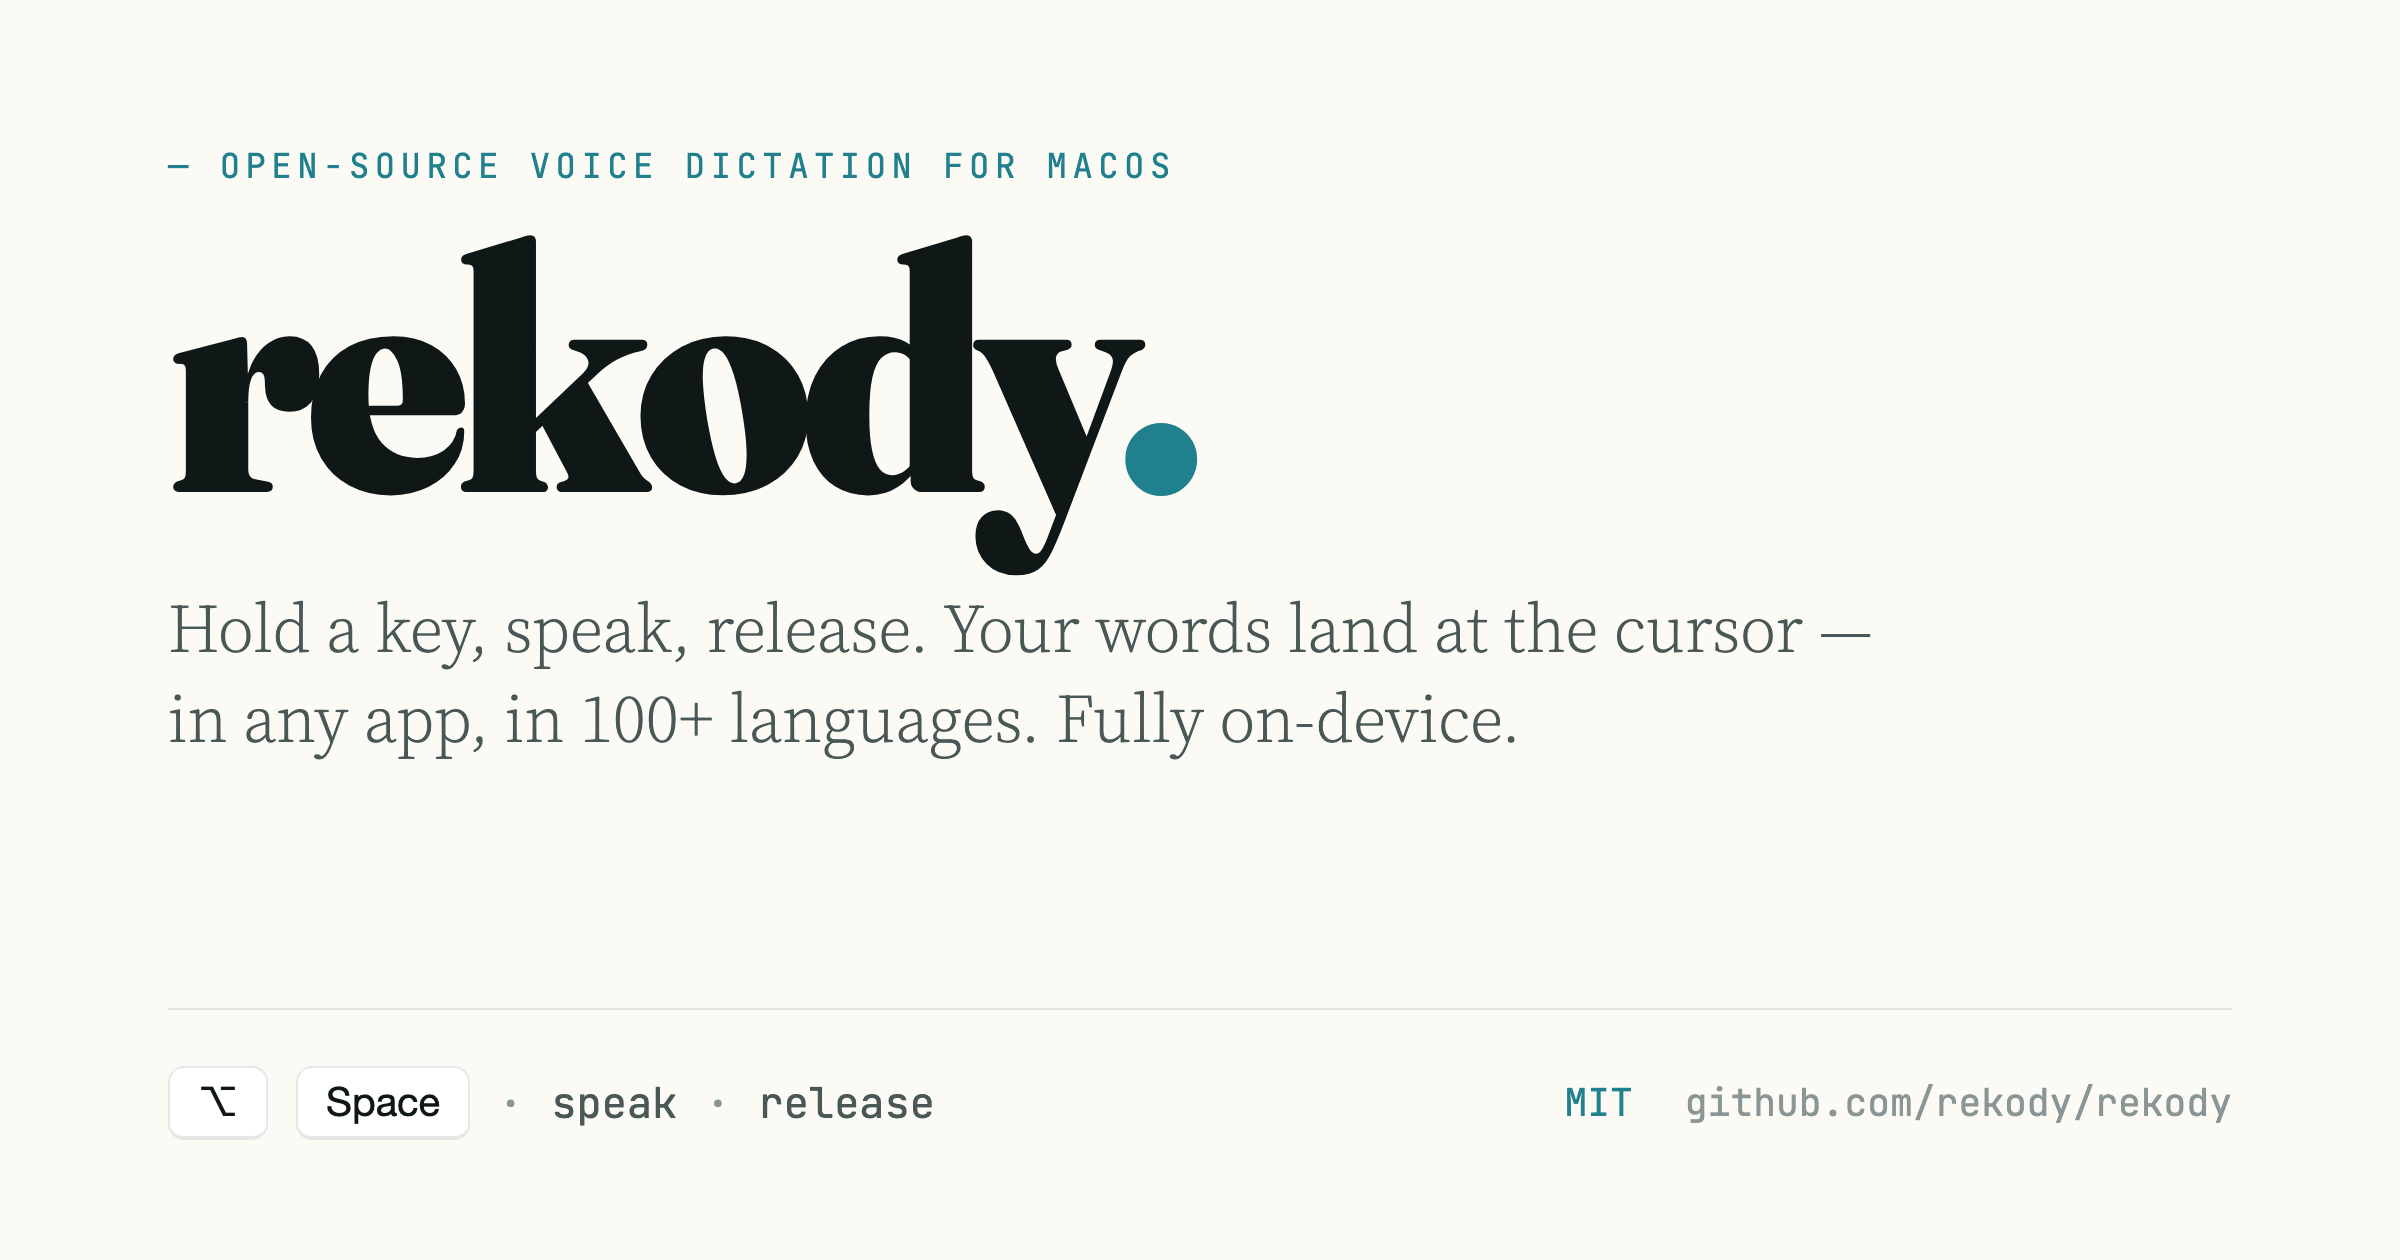
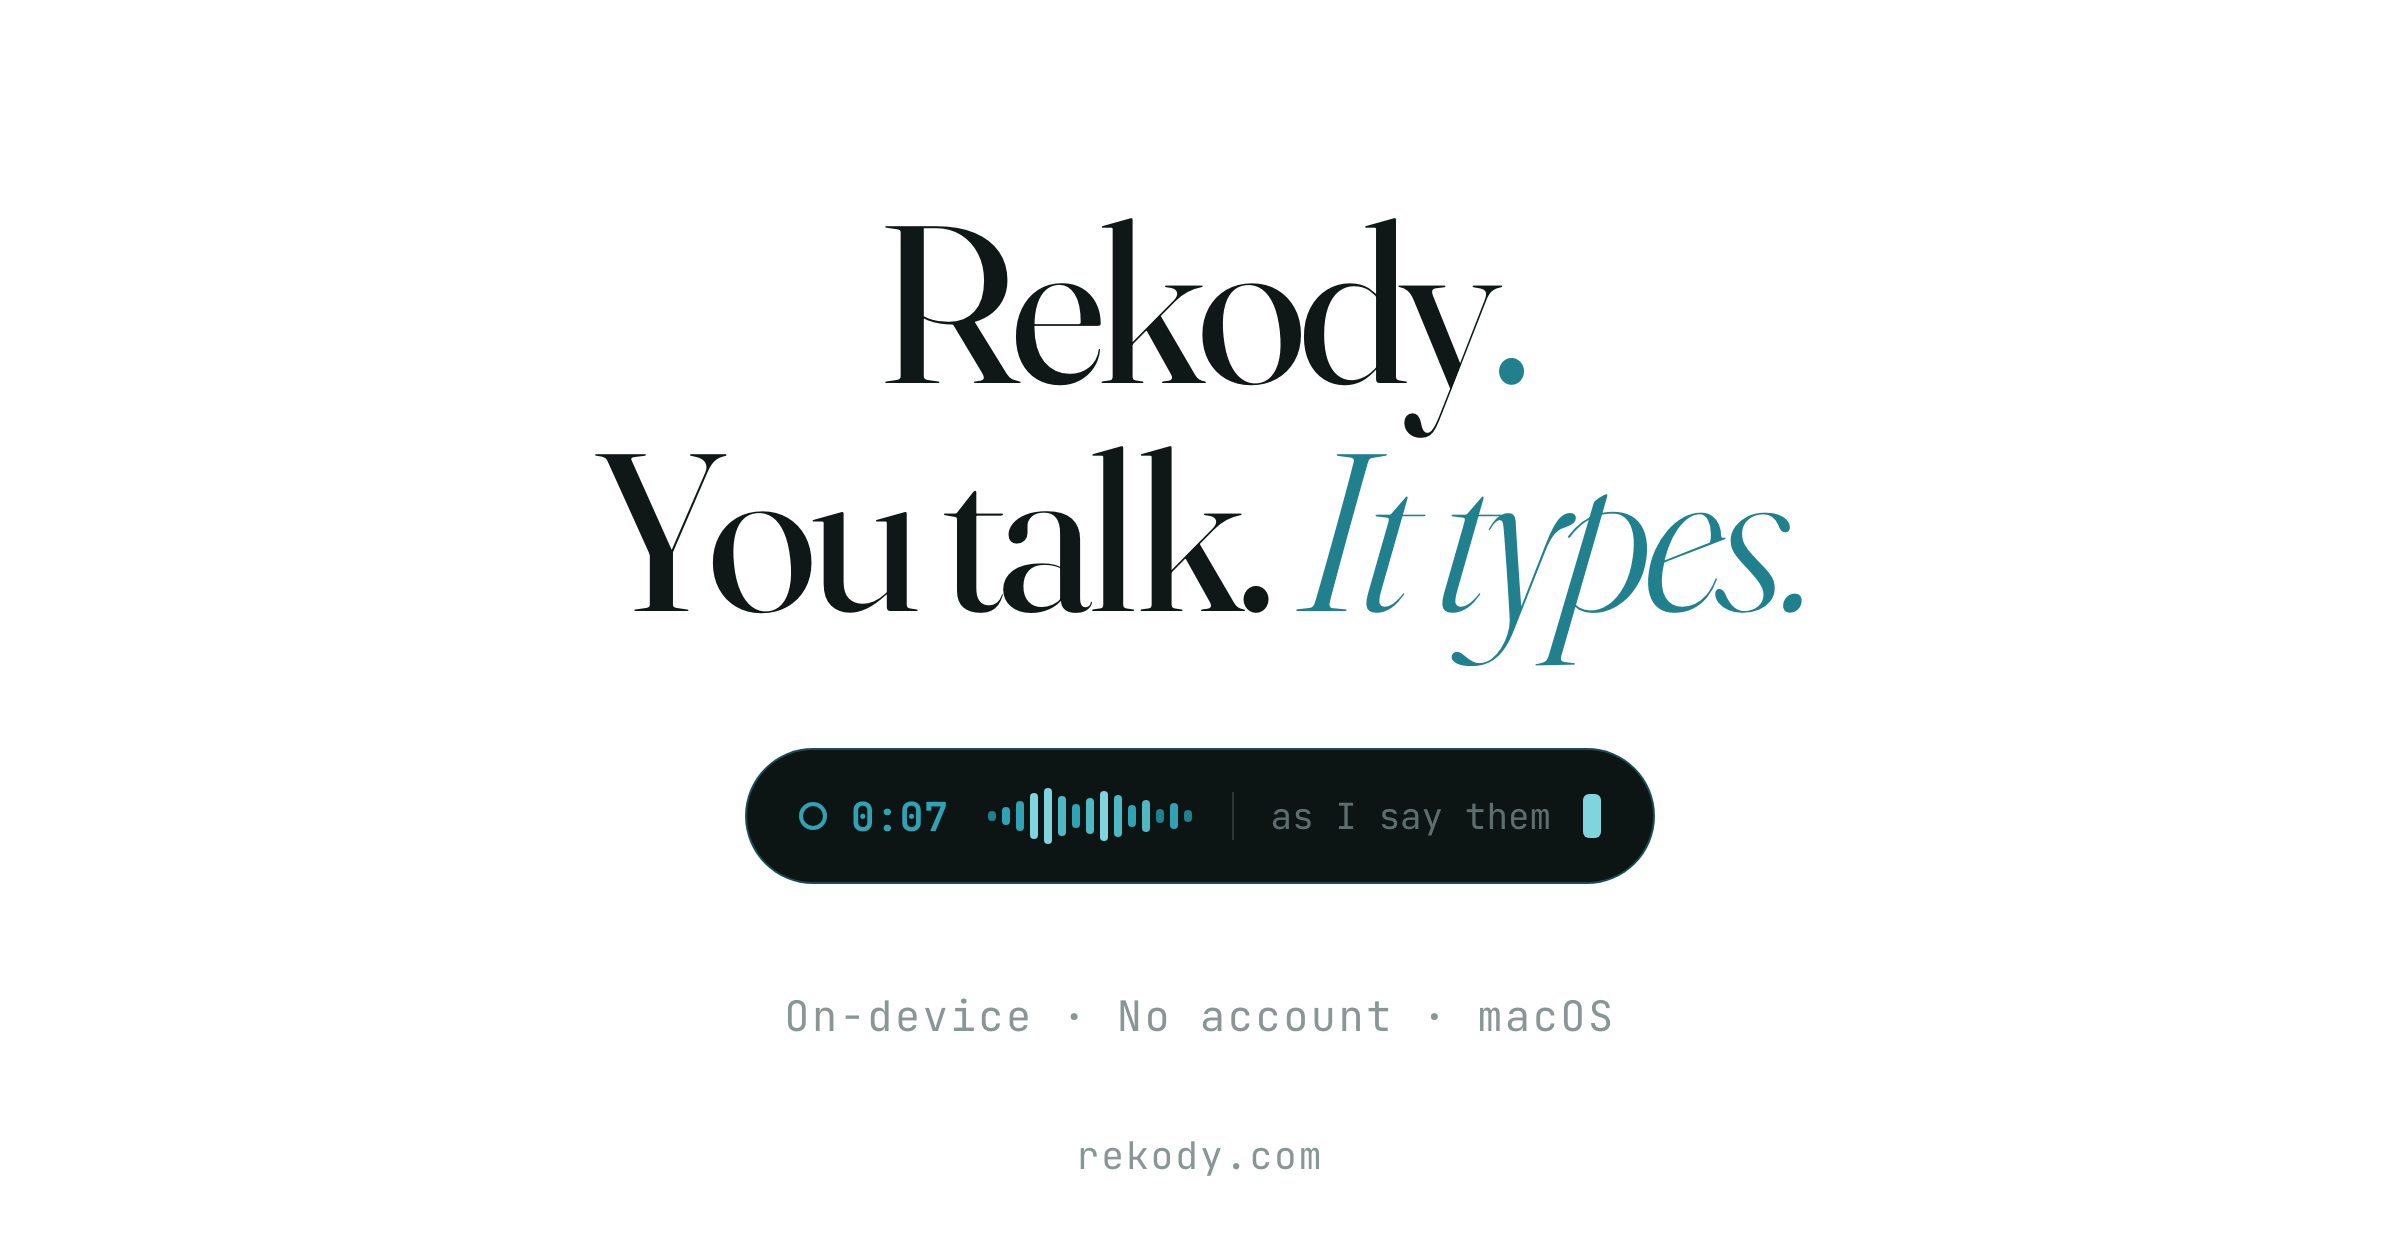
feat(website): on-brand OG share card
Replace the stale cream/lowercase OG card with a pure-white, on-brand one
that mirrors the site hero: "Rekody." + "You talk. It types." in Fraunces
(teal period and teal italic "It types."), a static render of the product
pill (hollow teal ring, teal 0:07 timer, teal waveform ramp, cream
transcript tail + caret), a mono trust line "On-device · No account ·
macOS", and a quiet rekody.com. No em dashes, no multilingual/OS/competitor
copy. Rendered at 2400x1260 (2x). Also tighten the default meta description
to one clean em-dash-free sentence.

diff --git a/website/scripts/og/template.html b/website/scripts/og/template.html
@@ -1,114 +1,170 @@
 <!doctype html>
-<!-- OG/social card template — rendered to public/og.png by generate.mjs.
-     Mirrors the site's design tokens (global.css): cream, ink, teal, Fraunces. -->
-<html>
+<!-- OG/social card template — rendered to public/og.png (2400x1260 @2x of 1200x630)
+     by generate.mjs or headless Chrome. Mirrors the site hero (Hero.astro) and
+     the ratified white-world brand tokens (global.css): pure white ground, ink,
+     teal, Fraunces display + JetBrains Mono. -->
+<html lang="en">
 <head>
 <meta charset="utf-8" />
 <link rel="preconnect" href="https://fonts.googleapis.com" />
-<link href="https://fonts.googleapis.com/css2?family=Fraunces:opsz,wght,SOFT@9..144,300..900,0..100&family=Source+Serif+4:opsz,wght@8..60,300..500&family=JetBrains+Mono:wght@400;500&display=swap" rel="stylesheet" />
+<link rel="preconnect" href="https://fonts.gstatic.com" crossorigin />
+<link href="https://fonts.googleapis.com/css2?family=Fraunces:ital,opsz,wght,SOFT@0,9..144,300..900,0..100;1,9..144,300..900,0..100&family=JetBrains+Mono:wght@400;500;700&display=swap" rel="stylesheet" />
 <style>
   :root {
-    --cream: #FBFAF4;
+    --white: #FFFFFF;
+    --paper: #FBFAF4;
     --ink: #0F1717;
     --ink-mute: #4A5757;
     --ink-faint: #8A9696;
     --teal: #20808D;
-    --hairline: rgba(15, 23, 23, 0.10);
+    --pill: #0D1414;
   }
   * { margin: 0; padding: 0; box-sizing: border-box; }
+
+  html, body { width: 1200px; height: 630px; }
+
   body {
-    width: 1200px;
-    height: 630px;
-    background: var(--cream);
-    font-family: "Source Serif 4", Georgia, serif;
+    background: var(--white);
+    font-family: "Fraunces", Georgia, serif;
     color: var(--ink);
     display: flex;
     flex-direction: column;
-    justify-content: space-between;
-    padding: 72px 84px 60px;
+    align-items: center;
+    justify-content: center;
     position: relative;
     overflow: hidden;
+    -webkit-font-smoothing: antialiased;
+    text-rendering: geometricPrecision;
   }
-  .eyebrow {
-    font-family: "JetBrains Mono", monospace;
-    font-size: 17px;
-    letter-spacing: 0.16em;
-    text-transform: uppercase;
+
+  /* Centered stack: wordmark sentence, pill, trust line, url. */
+  .stage {
+    display: flex;
+    flex-direction: column;
+    align-items: center;
+    gap: 52px;
+    margin-top: -14px; /* optical centering: descenders + domain balance the block */
+  }
+
+  /* The brand sentence — mirrors Hero.astro H1 exactly:
+     "Rekody." then "You talk. It types." with the name's period + "It types."
+     in teal, "It types." set in Fraunces 300 italic. */
+  .headline {
+    font-weight: 400;
+    letter-spacing: -0.035em;
+    line-height: 1.02;
+    text-align: center;
+    color: var(--ink);
+    font-size: 112px;
+  }
+  .headline .name { display: block; }
+  .headline .teal { color: var(--teal); }
+  .headline .it {
+    font-weight: 300;
+    font-style: italic;
     color: var(--teal);
   }
-  .wordmark {
-    font-family: "Fraunces", Georgia, serif;
-    font-variation-settings: 'SOFT' 30;
-    font-weight: 900;
-    font-size: 170px;
-    line-height: 0.95;
-    letter-spacing: -0.04em;
-    color: var(--ink);
-    margin-top: 10px;
-  }
-  .wordmark .dot { color: var(--teal); margin-left: -0.04em; }
-  .tagline {
-    font-size: 34px;
-    font-weight: 300;
-    color: var(--ink-mute);
-    margin-top: 26px;
-    max-width: 860px;
-    line-height: 1.35;
-  }
-  .bottom {
+
+  /* Product pill — mirrors PillView.swift / the hero HUD (hands-free state),
+     rendered static for the still image: app dot, hollow teal circle + teal
+     mono timer, teal waveform ramp, cream transcript tail + teal caret. */
+  .pill {
     display: flex;
     align-items: center;
-    justify-content: space-between;
-    border-top: 1px solid var(--hairline);
-    padding-top: 28px;
+    gap: 20px;
+    background: var(--pill);
+    border: 1px solid rgba(47, 163, 179, 0.4);
+    border-radius: 999px;
+    padding: 16px 26px;
+    box-shadow: 0 40px 90px -40px rgba(15, 23, 23, 0.45);
   }
-  .keys {
+  .pill .grp { display: flex; align-items: center; gap: 12px; }
+  /* Hollow teal recording ring */
+  .ring {
+    width: 14px; height: 14px;
+    border-radius: 999px;
+    border: 2px solid #2FA3B3;
+    flex-shrink: 0;
+  }
+  .timer {
+    font-family: "JetBrains Mono", monospace;
+    font-weight: 700;
+    font-size: 20px;
+    color: #2FA3B3;
+    letter-spacing: 0.01em;
+  }
+  /* Waveform: teal amplitude ramp #20808D → #7FD4DE (from Hero.astro bars) */
+  .wave { display: flex; align-items: center; gap: 3px; height: 34px; }
+  .wave i { width: 4px; border-radius: 2px; display: block; }
+  /* Cream transcript tail + blinking-look caret */
+  .tail {
+    display: flex; align-items: center; gap: 8px;
+    padding-left: 18px;
+    border-left: 1px solid rgba(251, 250, 244, 0.14);
+  }
+  .tail .dim { font-family: "JetBrains Mono", monospace; font-size: 18px; color: #5E6E6E; }
+  .tail .lit { font-family: "JetBrains Mono", monospace; font-size: 18px; color: var(--paper); }
+  .caret { width: 9px; height: 22px; border-radius: 3px; background: #7FD4DE; flex-shrink: 0; }
+
+  /* Trust line — mono, faint, middot separators, no em dashes. */
+  .trust {
     font-family: "JetBrains Mono", monospace;
     font-size: 21px;
-    color: var(--ink-mute);
-    display: flex;
-    align-items: center;
-    gap: 14px;
+    letter-spacing: 0.06em;
+    color: var(--ink-faint);
   }
-  .key {
-    display: inline-block;
-    border: 1px solid var(--hairline);
-    border-bottom-width: 2px;
-    border-radius: 8px;
-    padding: 5px 14px;
-    background: #fff;
-    color: var(--ink);
-    font-size: 20px;
-    /* System font first: JetBrains Mono lacks ⌥ (U+2325) */
-    font-family: -apple-system, "Helvetica Neue", "JetBrains Mono", monospace;
-  }
-  .sep { color: var(--ink-faint); }
-  .meta {
+
+  /* Quiet domain, bottom-center under the pill. */
+  .domain {
+    position: absolute;
+    bottom: 40px;
+    left: 0; right: 0;
+    text-align: center;
     font-family: "JetBrains Mono", monospace;
     font-size: 19px;
+    letter-spacing: 0.05em;
     color: var(--ink-faint);
-    display: flex;
-    gap: 26px;
   }
-  .meta .mit { color: var(--teal); }
 </style>
 </head>
 <body>
-  <div>
-    <div class="eyebrow">— open-source voice dictation for macOS</div>
-    <div class="wordmark">rekody<span class="dot">.</span></div>
-    <div class="tagline">Hold a key, speak, release. Your words land at the cursor — in any app, in 100+ languages. Fully on-device.</div>
-  </div>
-  <div class="bottom">
-    <div class="keys">
-      <span class="key">⌥</span><span class="key">Space</span>
-      <span class="sep">·</span> speak
-      <span class="sep">·</span> release
+  <div class="stage">
+    <h1 class="headline">
+      <span class="name">Rekody<span class="teal">.</span></span>
+      You talk. <span class="it">It types.</span>
+    </h1>
+
+    <div class="pill">
+      <div class="grp">
+        <span class="ring"></span>
+        <span class="timer">0:07</span>
+      </div>
+      <div class="wave">
+        <i style="height:5px;  background:#20808D;"></i>
+        <i style="height:9px;  background:#2FA3B3;"></i>
+        <i style="height:15px; background:#2FA3B3;"></i>
+        <i style="height:23px; background:#7FD4DE;"></i>
+        <i style="height:28px; background:#7FD4DE;"></i>
+        <i style="height:20px; background:#4FB8C5;"></i>
+        <i style="height:12px; background:#2FA3B3;"></i>
+        <i style="height:18px; background:#4FB8C5;"></i>
+        <i style="height:25px; background:#7FD4DE;"></i>
+        <i style="height:21px; background:#4FB8C5;"></i>
+        <i style="height:11px; background:#2FA3B3;"></i>
+        <i style="height:16px; background:#4FB8C5;"></i>
+        <i style="height:7px;  background:#20808D;"></i>
+        <i style="height:13px; background:#2FA3B3;"></i>
+        <i style="height:6px;  background:#20808D;"></i>
+      </div>
+      <div class="tail">
+        <span class="dim">as I say them</span><span class="lit"></span>
+        <span class="caret"></span>
+      </div>
     </div>
-    <div class="meta">
-      <span class="mit">MIT</span>
-      <span>github.com/rekody/rekody</span>
-    </div>
+
+    <div class="trust">On-device &middot; No account &middot; macOS</div>
   </div>
+
+  <div class="domain">rekody.com</div>
 </body>
 </html>
